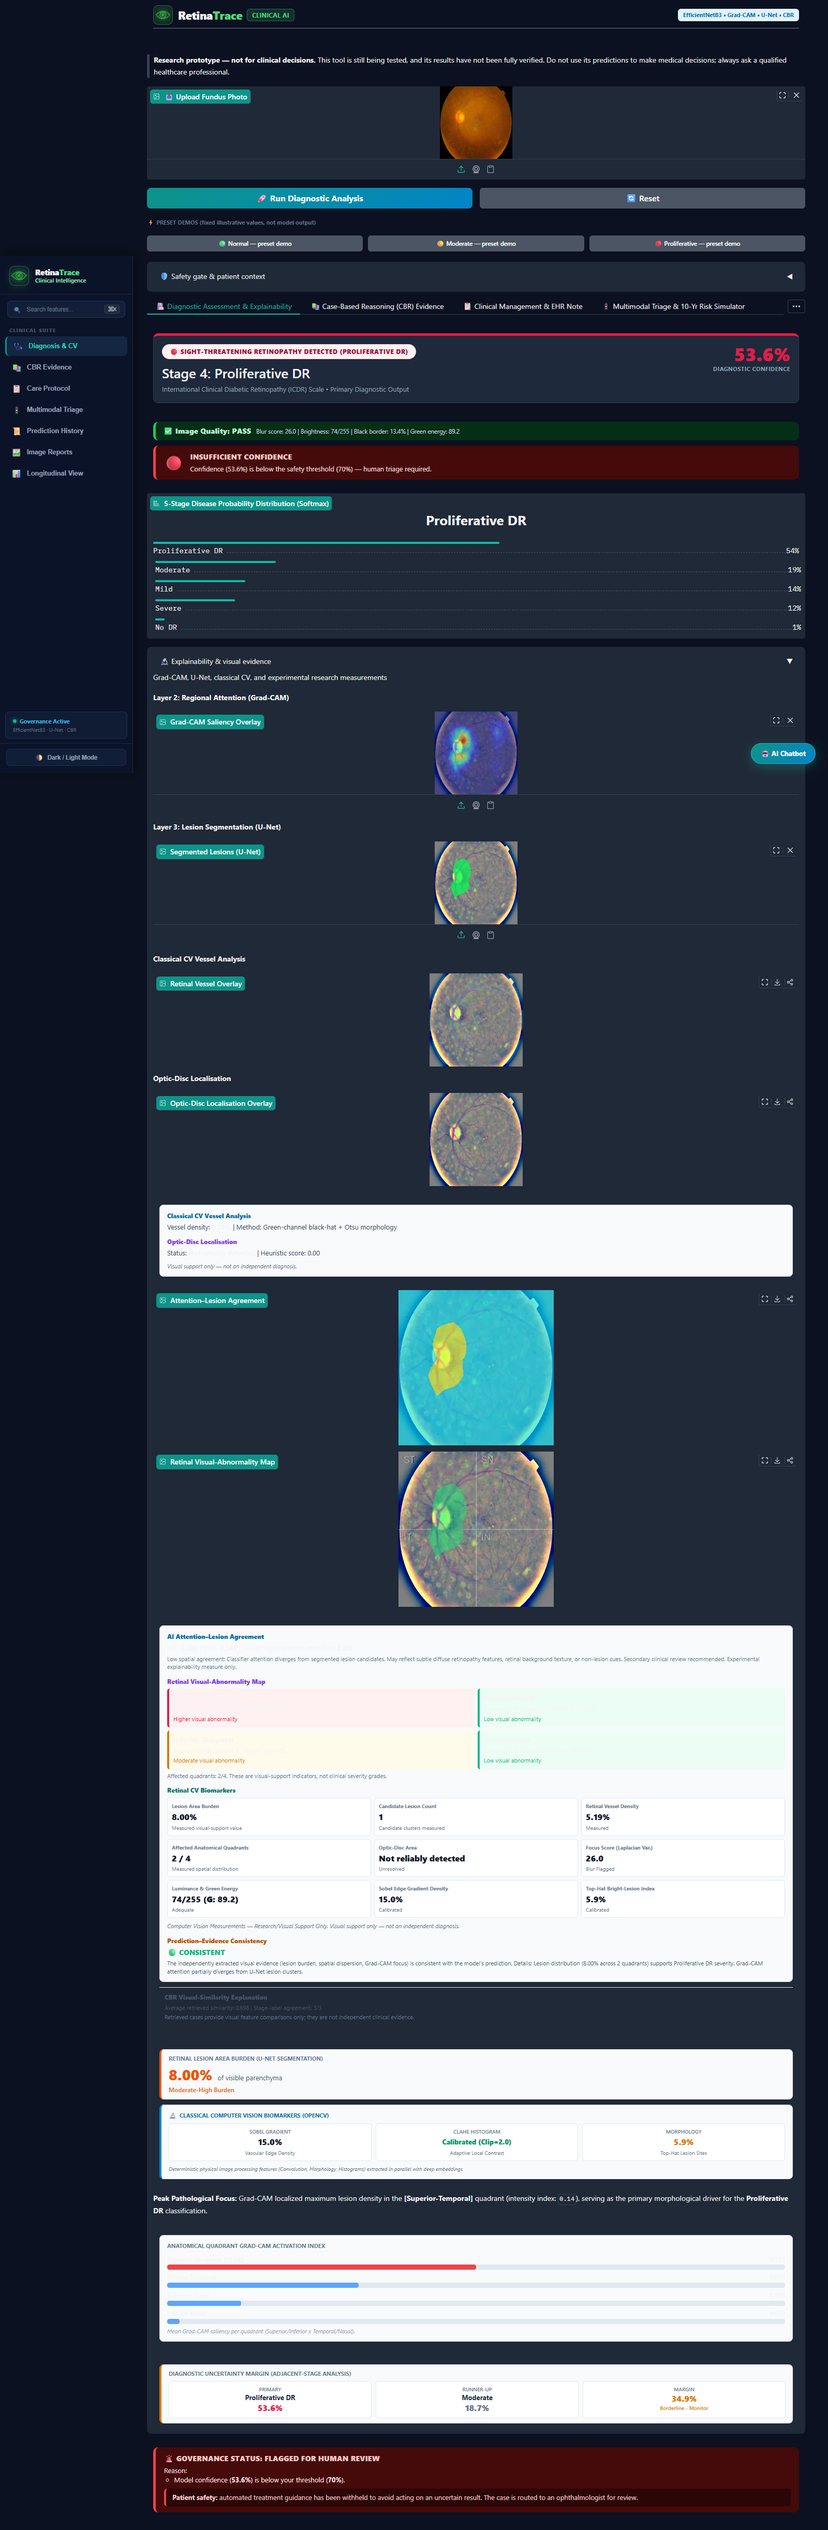
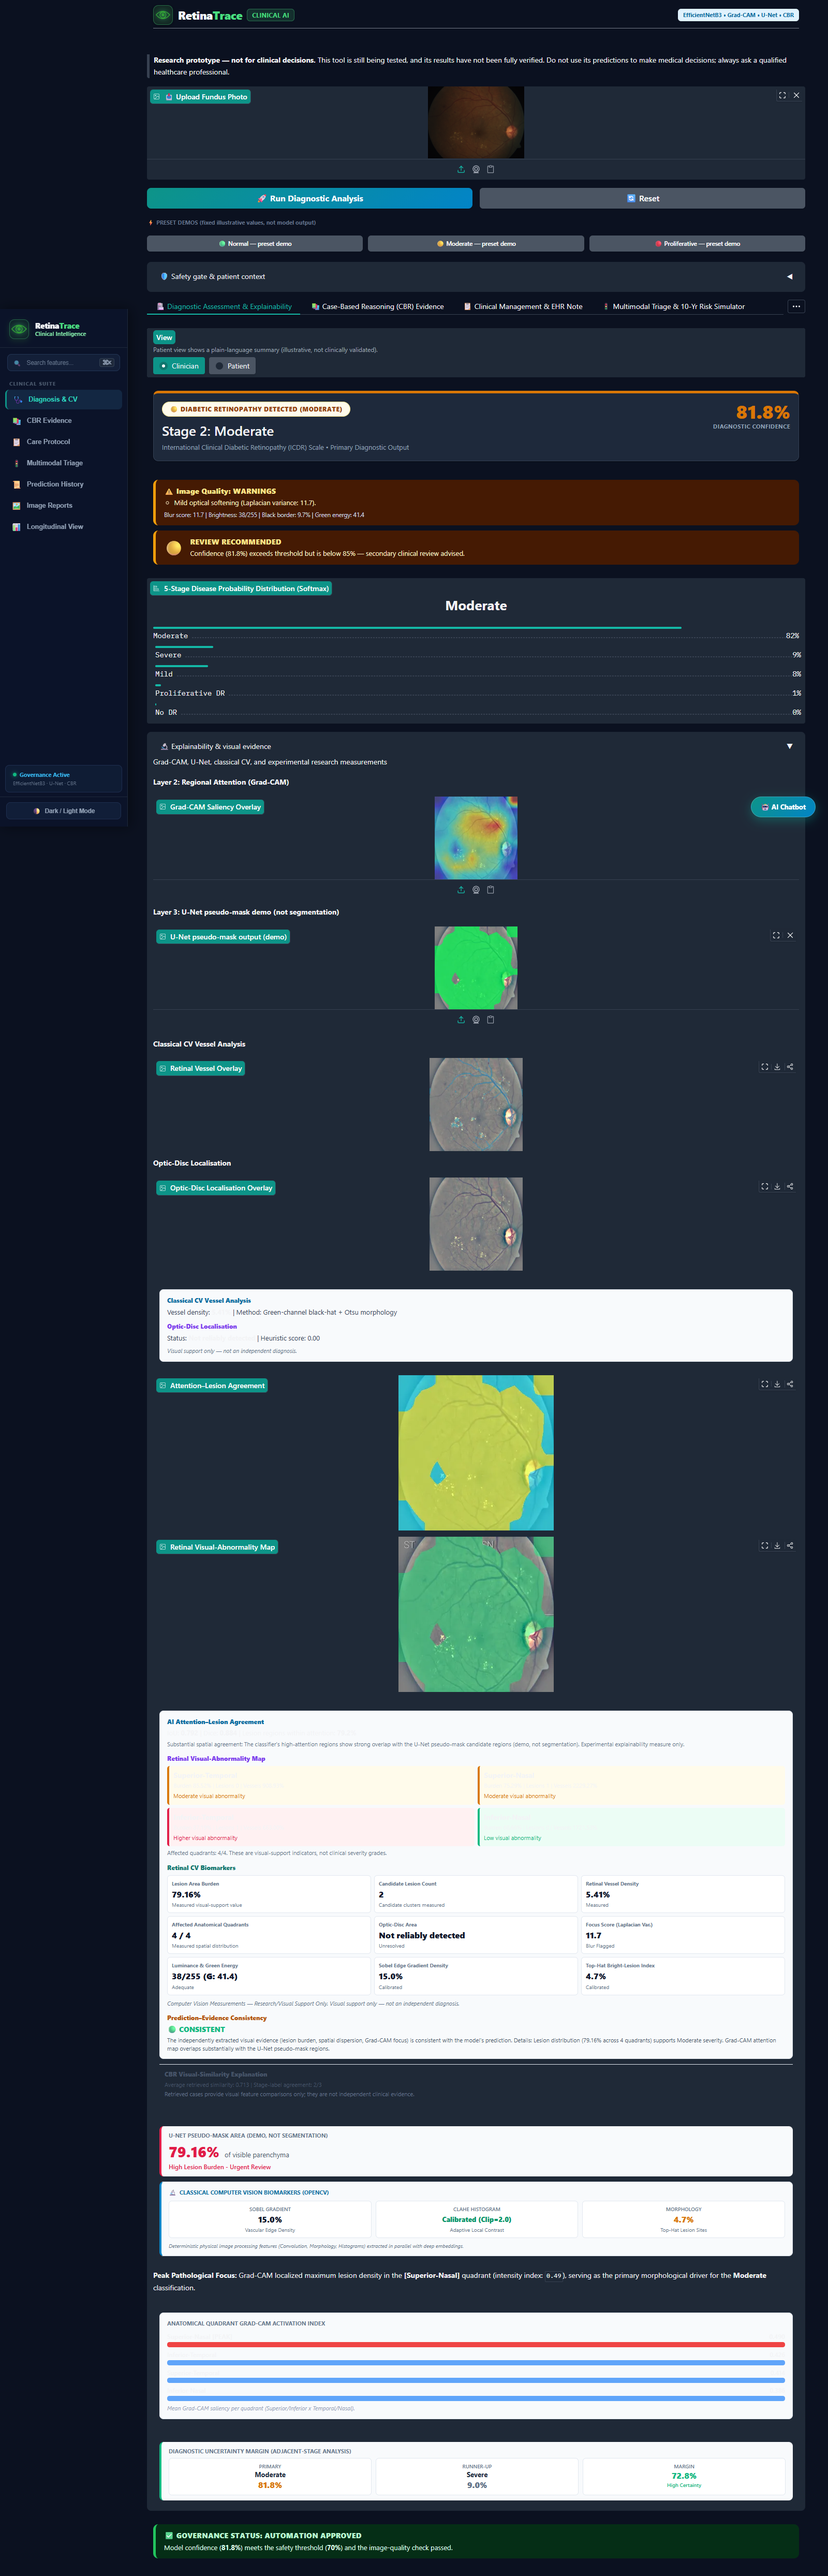
Label the U-Net as a pseudo-mask demo in the app and chatbot

Changed region(s): [[0.1562, 0.0, 1.0, 0.9949], [0.0, 0.0933, 0.1562, 0.2176], [0.0, 0.2798, 0.125, 0.3109]]

diff --git a/app/chatbot.py b/app/chatbot.py
@@ -120,16 +120,15 @@ _CLINICAL_KB: List[Dict[str, Any]] = [
     {
         "keys": ["unet", "u-net", "segmentation", "lesion", "layer 3", "mask"],
         "reply": (
-            "**Auxiliary U-Net — Layer 3 Pixel-Level Lesion Segmentation**\n\n"
-            "The U-Net predicts a pixel-level lesion probability map, which is visualized "
-            "with highlighted candidate regions.\n\n"
-            "In the notebook training workflow, manual pixel masks were unavailable, so "
-            "pseudo-masks were generated from the green channel, "
-            "Top-Hat and Black-Hat morphology, and Grad-CAM saliency above 0.35. These are "
-            "synthetic training targets, not manual ground truth.\n\n"
-            "The notebook trains the U-Net with a **Hybrid Soft Dice + BCE Loss**. In the "
-            "deployed app, the loaded U-Net mask is additionally filtered at 0.35 and combined "
-            "with a Grad-CAM threshold of 0.30. The result is visual support, not an independent diagnosis."
+            "**Auxiliary U-Net — Layer 3 pseudo-mask demonstration**\n\n"
+            "This U-Net is **not lesion segmentation**. APTOS 2019 has no manual lesion masks, so "
+            "it was trained on heuristic pseudo-masks: green-channel top-hat and black-hat "
+            "morphology, kept only inside the Grad-CAM region (saliency above 0.35). These are "
+            "synthetic targets, not manual ground truth.\n\n"
+            "The notebook trained it with a **Hybrid Soft Dice + BCE Loss**, and it reached a Dice of "
+            "only **0.0031** on those pseudo-masks, so it did not learn even its synthetic targets. "
+            "In the app its output is further filtered at 0.35 and combined with a Grad-CAM threshold "
+            "of 0.30, and it is shown only as a pipeline demonstration, not as evidence of lesions."
         ),
     },
     {
@@ -223,7 +222,7 @@ _CHATBOT_FALLBACK = (
     "I don't have a specific answer for that query in my clinical knowledge base. "
     "For questions about diabetic retinopathy management, please consult the "
     "**AAO Preferred Practice Pattern (Flaxel et al., 2020)** or a qualified ophthalmologist.\n\n"
-    "You can ask me about: DR stages (0–4), Grad-CAM, the U-Net segmentation, "
+    "You can ask me about: DR stages (0–4), Grad-CAM, the U-Net pseudo-mask demo, "
     "the Governance Agent, Case-Based Reasoning, the preprocessing pipeline, "
     "Quadratic Weighted Kappa, referral guidelines, or the training dataset."
 )
@@ -239,8 +238,8 @@ _SIMPLE_CHAT_REPLIES = {
         "prediction. It helps the user see where the model was looking."
     ),
     "unet": (
-        "U-Net is the part of RetinaTrace that highlights possible lesion areas pixel by pixel. "
-        "It helps show where abnormalities may be present, but the highlighted areas still need clinical confirmation."
+        "U-Net is a demonstration layer in RetinaTrace. It was trained on heuristic pseudo-masks, "
+        "not on real lesion outlines, so it is not lesion segmentation and its highlighted areas are not evidence of lesions."
     ),
     "efficientnet": (
         "EfficientNetB3 is the image-classification model used by RetinaTrace. It examines the "
@@ -352,7 +351,7 @@ class ChatKnowledgeAgent:
         if intent == "greeting":
             return "Hello. I am the **RetinaTrace Clinical Knowledge Assistant**. Ask me about diabetic retinopathy stages, this model, or clinical guidelines."
         if intent == "help":
-            return "I can explain **DR stages 0–4**, Grad-CAM, U-Net lesion segmentation, the Governance Agent, referral guidance, preprocessing, and the current prediction."
+            return "I can explain **DR stages 0–4**, Grad-CAM, the U-Net pseudo-mask demo, the Governance Agent, referral guidance, preprocessing, and the current prediction."
         if intent == "thanks":
             return "You are welcome. Ask another question whenever you are ready."
         if intent == "definition":
@@ -385,8 +384,8 @@ class ChatKnowledgeAgent:
             if topic == "lesions":
                 return (
                     f"**Lesions in the current analysis**\n\n"
-                    f"The U-Net identified lesion candidates in **{pred_context.get('lesion_pct', 0.0):.1f}%** of the retinal area. "
-                    "These candidates may include microaneurysms or exudate-like regions and should be clinically confirmed."
+                    f"The U-Net pseudo-mask demo marked **{pred_context.get('lesion_pct', 0.0):.1f}%** of the retinal area. "
+                    "It was trained on heuristic pseudo-masks and is not lesion segmentation, so these regions are not confirmed lesions."
                 )
             if topic == "confidence":
                 return f"The current **{stage_name}** prediction has a model confidence of **{conf*100:.1f}%**."

diff --git a/core/advanced_cv.py b/core/advanced_cv.py
@@ -63,7 +63,7 @@ def analyze_attention_lesion_agreement(
         cam_resized = np.zeros((h, w), dtype=np.float32)
         cam_binary = np.zeros((h, w), dtype=bool)
 
-    # U-Net lesion mask
+    # U-Net pseudo-mask output
     if raw_unet_mask is not None and stage > 0:
         if raw_unet_mask.shape != (h, w):
             raw_unet_mask = cv2.resize(raw_unet_mask, (w, h))
@@ -84,14 +84,14 @@ def analyze_attention_lesion_agreement(
     # Qualitative interpretation
     if stage == 0 or lesion_area == 0:
         interpretation = (
-            "No significant retinal lesions segmented by U-Net (Stage 0 / normal parenchyma). "
+            "No candidate regions marked by the U-Net pseudo-mask demo (Stage 0 / normal parenchyma). "
             "Model attention is distributed over normal structural landmarks."
         )
         agreement_level = "Baseline (Normal Retinal Parenchyma)"
     elif lesion_in_cam_pct >= 65.0 or dice >= 0.50:
         interpretation = (
             "Substantial spatial agreement: The classifier's high-attention regions "
-            "show strong overlap with independently segmented retinal microvascular lesions."
+            "show strong overlap with the U-Net pseudo-mask candidate regions (demo, not segmentation)."
         )
         agreement_level = "High Spatial Agreement"
     elif lesion_in_cam_pct >= 30.0 or dice >= 0.25:
@@ -102,7 +102,7 @@ def analyze_attention_lesion_agreement(
         agreement_level = "Moderate Spatial Agreement"
     else:
         interpretation = (
-            "Low spatial agreement: Classifier attention diverges from segmented lesion candidates. "
+            "Low spatial agreement: Classifier attention diverges from the U-Net pseudo-mask candidates. "
             "May reflect subtle diffuse retinopathy features, retinal background texture, or non-lesion cues. "
             "Secondary clinical review recommended."
         )
@@ -119,7 +119,7 @@ def analyze_attention_lesion_agreement(
     overlay[overlap_mask] = [230, 255, 50]
     combined_vis = cv2.addWeighted(base, 0.40, overlay, 0.60, 0)
 
-    # Lesion mask visualization
+    # U-Net pseudo-mask visualization
     lesion_vis = base.copy()
     lesion_vis[lesion_binary] = [0, 255, 100]
     lesion_vis = cv2.addWeighted(base, 0.50, lesion_vis, 0.50, 0)
@@ -279,7 +279,7 @@ def compile_retinal_biomarkers(
     biomarkers.append({
         "name": "Lesion Area Burden",
         "value": f"{lesion_pct:.2f}%",
-        "tooltip": "Percentage of visible retinal parenchyma occupied by segmented lesion candidates (microaneurysms/exudates).",
+        "tooltip": "Percentage of visible retinal parenchyma marked by the U-Net pseudo-mask demo (not validated lesion segmentation).",
         "category": "Pathology Burden",
         "status": "No candidate area" if lesion_pct == 0.0 else "Measured visual-support value",
     })
@@ -439,7 +439,7 @@ def evaluate_prediction_evidence_consistency(
     elif stage in (2, 3, 4):  # Moderate, Severe, Proliferative
         if lesion_pct < 0.20:
             reasons.append(
-                f"High-stage prediction ({stage_name}, {confidence*100:.1f}%) has minimal independently segmented lesion burden ({lesion_pct:.2f}%). "
+                f"High-stage prediction ({stage_name}, {confidence*100:.1f}%) has a minimal U-Net pseudo-mask area ({lesion_pct:.2f}%). "
                 "Classifier may rely on subtle diffuse textures or vessel attenuation."
             )
             inconsistencies += 2
@@ -452,7 +452,7 @@ def evaluate_prediction_evidence_consistency(
         # Overlap check
         dice = overlap_data.get("dice", 0.0)
         if dice >= 0.35 or overlap_data.get("lesion_in_cam_pct", 0.0) >= 50.0:
-            reasons.append("Grad-CAM attention map exhibits substantial spatial concordance with segmented lesions.")
+            reasons.append("Grad-CAM attention map overlaps substantially with the U-Net pseudo-mask regions.")
         else:
             reasons.append("Grad-CAM attention partially diverges from U-Net lesion clusters.")
 
@@ -474,7 +474,7 @@ def evaluate_prediction_evidence_consistency(
         status_color = "#e11d48"
         status_bg = "#fff1f2"
         icon = "🟠"
-        explanation = "Potential divergence between classifier confidence and independently segmented lesion evidence. Manual slit-lamp ophthalmic review strongly recommended."
+        explanation = "Potential divergence between classifier confidence and the U-Net pseudo-mask evidence. Manual slit-lamp ophthalmic review strongly recommended."
 
     full_reason = f"{explanation} Details: {' '.join(reasons)}"
 

diff --git a/core/models.py b/core/models.py
@@ -168,7 +168,7 @@ def _build_legacy_unet():
         model.load_weights(AppConfig.UNET_WEIGHTS_PATH)
     except Exception as exc:
         raise RuntimeError(f"Failed to load required U-Net checkpoint '{AppConfig.UNET_WEIGHTS_PATH}'.") from exc
-    print(f"[U-Net] Auxiliary lesion segmentation weights loaded successfully from {AppConfig.UNET_WEIGHTS_PATH}.")
+    print(f"[U-Net] Auxiliary pseudo-mask U-Net weights loaded successfully from {AppConfig.UNET_WEIGHTS_PATH}.")
     return model
 
 
@@ -180,7 +180,7 @@ def build_deep_clinical_unet(input_shape: tuple = (AppConfig.IMG_SIZE, AppConfig
     - Double-convolution blocks with Batch Normalization and ReLU activations
     - Latent Bottleneck: 512 filters with Spatial Dropout (rate=0.40)
     - 4-Stage Transposed Convolution Decoder with matching skip connections
-    - Sigmoid 1x1 output layer for pixel-level binary lesion segmentation
+    - Sigmoid 1x1 output layer for a binary pseudo-mask (demonstration, not lesion segmentation)
     """
     def double_conv_block(x, filters, name_prefix):
         x = layers.Conv2D(filters, (3, 3), padding="same", name=f"{name_prefix}_conv1")(x)

diff --git a/app/main.py b/app/main.py
@@ -117,8 +117,8 @@ with gr.Blocks(title="RetinaTrace — DR Research Prototype") as demo:
                                 gr.Markdown("**Layer 2: Regional Attention (Grad-CAM)**")
                                 overlay_cam_view = gr.Image(label="Grad-CAM Saliency Overlay", type="numpy", height=200)
                             with gr.Column(scale=5):
-                                gr.Markdown("**Layer 3: Lesion Segmentation (U-Net)**")
-                                lesion_seg_view = gr.Image(label="Segmented Lesions (U-Net)", type="numpy", height=200)
+                                gr.Markdown("**Layer 3: U-Net pseudo-mask demo (not segmentation)**")
+                                lesion_seg_view = gr.Image(label="U-Net pseudo-mask output (demo)", type="numpy", height=200)
                         with gr.Row():
                             with gr.Column(scale=5):
                                 gr.Markdown("**Classical CV Vessel Analysis**")

diff --git a/app/analysis.py b/app/analysis.py
@@ -478,7 +478,7 @@ def analyze_fundus(img: Optional[np.ndarray], threshold: float, session_history:
 
     lesion_burden_html = (
         f'<div style="margin-top:8px; padding:10px 14px; background:#f8fafc; border-radius:8px; border-left:4px solid {burden_color};">'
-        f'<div style="font-size:11px; font-weight:700; text-transform:uppercase; color:#64748b; margin-bottom:4px;">Retinal Lesion Area Burden (U-Net Segmentation)</div>'
+        f'<div style="font-size:11px; font-weight:700; text-transform:uppercase; color:#64748b; margin-bottom:4px;">U-Net Pseudo-Mask Area (demo, not segmentation)</div>'
         f'<div style="display:flex; align-items:baseline; gap:10px;">'
         f'<span style="font-size:28px; font-weight:800; color:{burden_color};">{lesion_pct:.2f}%</span>'
         f'<span style="font-size:13px; color:#475569;">of visible parenchyma</span></div>'

diff --git a/app/reports.py b/app/reports.py
@@ -215,7 +215,7 @@ def generate_full_report_pdf(stage_name: str, confidence: float, probabilities: 
     report_images = [
         ("Uploaded fundus image", original_image),
         ("Grad-CAM attention visual", cam_image),
-        ("U-Net lesion visual", lesion_image),
+        ("U-Net pseudo-mask demo (not segmentation)", lesion_image),
     ]
     return generate_document_pdf("RetinaTrace Full Diagnostic Report", report_body, report_images)
 

diff --git a/README.md b/README.md
@@ -108,7 +108,7 @@ To align with clean-architecture principles and deployment requirements:
    - **Module split:** `app/main.py` only builds the layout and wires events; analysis, chatbot, reports, triage and styling each live in their own module.
    - **Separation of Concerns:** the `app/` package contains *no* raw neural network layer definitions or image-processing mathematics; it delegates domain processing to `core/`.
 3. **Automated Unit Testing (`tests/`):**
-   - `tests/test_preprocessing.py` verifies tensor dimensionality, range $[0.0, 1.0]$, border cropping, ablation flags, and corrupted-input handling; `tests/test_app_logic.py` covers the chatbot (including refusal of treatment and dosing questions), triage labels, reports and the metrics loader; `tests/test_app_pipeline.py` loads the model and checks that uploads always use real predictions (presets only from the preset buttons), the governance reason text, the fundus-validity gate, and that the `weights=None` backbone gives the same probabilities; `tests/test_red_flags_patient.py` covers the red-flag rule, patient-ID cleaning, the Patient view and the ID/eye in all three PDFs. 57 tests in total; run them with `python -m pytest tests` (or `python -m unittest discover tests`). A full end-to-end UI test with screenshots is in `report_images/app_test/README.md`. App vs notebook: on all 550 test images the app's real prediction path matches the notebook's saved argmax prediction on 549/550 (one near-tie), with a largest probability difference of 0.0066 and accuracy 0.762 (`report_images/app_test/app_vs_notebook_check.csv`).
+   - `tests/test_preprocessing.py` verifies tensor dimensionality, range $[0.0, 1.0]$, border cropping, ablation flags, and corrupted-input handling; `tests/test_app_logic.py` covers the chatbot (including refusal of treatment and dosing questions), triage labels, reports and the metrics loader; `tests/test_app_pipeline.py` loads the model and checks that uploads always use real predictions (presets only from the preset buttons), the governance reason text, the fundus-validity gate, and that the `weights=None` backbone gives the same probabilities; `tests/test_red_flags_patient.py` covers the red-flag rule, patient-ID cleaning, the Patient view and the ID/eye in all three PDFs. 57 tests in total; run them with `python -m pytest tests` (or `python -m unittest discover tests`). A full end-to-end UI test with screenshots is in `report_images/app_test/README.md`. App vs notebook: on all 550 test images the app's real prediction path matches the notebook's saved argmax prediction on 549/550 (one exact tie); app accuracy 0.762 vs the notebook's 0.760, the one-image difference being the tied case. The largest probability difference is 0.0066 (`report_images/app_test/app_vs_notebook_check.csv`).
 
 > **Checkpoint status:** `core/config.py` matches the APTOS 2019 final model from Kaggle run
 > `run_20260930_155003` (300×300, dropout 0.5). The repository includes everything the app needs:
@@ -154,7 +154,7 @@ All core innovations in this project are directly grounded in and adapted from p
 * **The 3-Layer Explainability Hierarchy:**
   1. **Layer 1 (Global Classification):** EfficientNetB3 outputs the 5-stage ICDR disease grade ($0-4$) and confidence score.
   2. **Layer 2 (Regional Attention):** Grad-CAM visualizes class-discriminative heatmap activations and maps peak pathology quadrants (*Superior-Temporal, Inferior-Nasal*, etc.).
-  3. **Layer 3 (Pixel-level candidate regions):** An auxiliary U-Net with skip connections outputs a pixel-level map of candidate lesion regions. It is trained on synthetic pseudo-masks (below), so its output is a visual aid, not a validated lesion segmentation.
+  3. **Layer 3 (U-Net pseudo-mask demo, not segmentation):** An auxiliary U-Net with skip connections outputs a map of candidate regions. It is trained on heuristic pseudo-masks (below) and reached a Dice of only 0.0031 on them, so its output is a pipeline demonstration, not lesion segmentation.
 * **Hybrid Soft Dice Loss:** Because retinal lesions occupy $< 1-3\%$ of total pixels, standard binary cross-entropy collapses to predicting background. The network optimizes a **hybrid Soft Dice + BCE loss**:
   $$\mathcal{L} = 0.5\,\mathcal{L}_{\text{BCE}} + 0.5\left(1 - \frac{2\sum y_i\hat{y}_i + \epsilon}{\sum y_i + \sum \hat{y}_i + \epsilon}\right)$$
   ensuring stable gradient propagation while penalizing boundary overlap errors on tiny microvascular lesions.

diff --git a/report_images/app_test/README.md b/report_images/app_test/README.md
@@ -25,7 +25,7 @@ The Severe sample is predicted Proliferative DR (53.4%): an honest model error, 
 | 05_upload_stage2_moderate.png | Uploaded app/samples/stage2_moderate.jpg (true grade 2: Moderate) and ran the analysis | Stage 2: Moderate, 70.1% (model prediction; correct); 5.6 s | PASS |
 | 06_upload_stage3_severe.png | Uploaded app/samples/stage3_severe.jpg (true grade 3: Severe) and ran the analysis | Stage 4: Proliferative DR, 53.4% (model prediction; WRONG (honest model error)); 5.6 s | PASS |
 | 07_upload_stage4_proliferative.png | Uploaded app/samples/stage4_proliferative.jpg (true grade 4: Proliferative DR) and ran the analysis | Stage 4: Proliferative DR, 53.6% (model prediction; correct); 5.3 s | PASS |
-| 08_explainability_open.png | Opened 'Explainability & visual evidence' after the last upload | Grad-CAM overlay, U-Net demo panel, vessel and optic-disc overlays | PASS |
+| 08_explainability_open.png | Retaken: uploaded video_demo_images/2_moderate/2_81.8_891392c9683c.png (true grade 2: Moderate), ran the analysis and opened 'Explainability & visual evidence' | Stage 2: Moderate, 81.8% (model prediction); Grad-CAM overlay, 'Layer 3: U-Net pseudo-mask demo (not segmentation)' panel, vessel and optic-disc overlays | PASS |
 | 09_preset_normal.png | Clicked 'Normal — preset demo' | Stage 0: No DR, 93.8%, labelled as preset = True; heading shows 'PRESET DEMOS' = True | PASS |
 | 10_preset_moderate.png | Clicked 'Moderate — preset demo' | Stage 2: Moderate, 88.5%, labelled as preset = True; heading shows 'PRESET DEMOS' = True | PASS |
 | 11_preset_proliferative.png | Clicked 'Proliferative — preset demo' | Stage 4: Proliferative DR, 92.1%, labelled as preset = True; heading shows 'PRESET DEMOS' = True | PASS |
